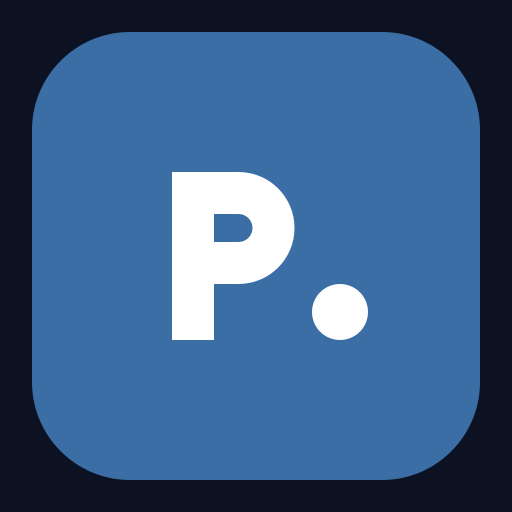
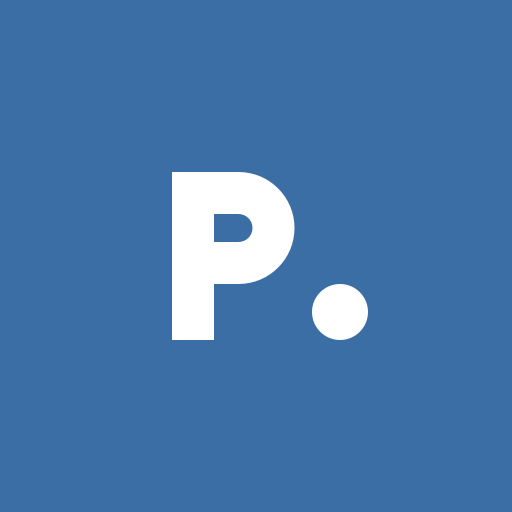
fix(icones): accorder le fond du maskable à la tuile, et le dire (#19)
Le script `icons` ne passait pas l'option de fond. `pwa-icons` comblait
donc le pourtour de l'icône maskable avec son défaut (12,18,34) autour
d'une tuile #3b6ea5 : l'icône installée portait un CADRE bleu nuit, et
chaque application engendrée depuis ce squelette naissait avec — au
relevé du 07/09/2026, onze dépôts du parc sur quatorze.

L'option vaut désormais 59,110,165, la teinte exacte de la tuile, et
`icon-maskable.png` est régénéré : le pourtour ne se voit plus.

Le défaut venait de ce que la règle n'était écrite nulle part. Elle
l'est maintenant à deux endroits, ceux qu'on lit au moment d'agir :
dans `favicon.svg`, qu'on ouvre pour remplacer la marque, et au geste 3
du README, qui dit de régénérer les icônes.

Changed region(s): [[0.0, 0.0, 1.0, 1.0]]

diff --git a/README.md b/README.md
@@ -193,7 +193,10 @@ Restent quatre gestes, que le générateur imprime et ne fait pas :
    branche ;
 2. inscrire l'application au catalogue du socle par une PR, sans quoi elle
    n'apparaît pas chez ses sœurs ;
-3. régénérer les icônes (`npm run icons`) depuis un nouveau `favicon.svg` ;
+3. régénérer les icônes (`npm run icons`) depuis un nouveau `favicon.svg`, en
+   accordant l'option `--bg` du script à la couleur de sa tuile — c'est elle
+   qui comble le pourtour du maskable, et un désaccord met un cadre autour de
+   l'icône installée ;
 4. supprimer la fonctionnalité d'exemple (`src/features/home/`) — elle est
    faite pour ça.
 
